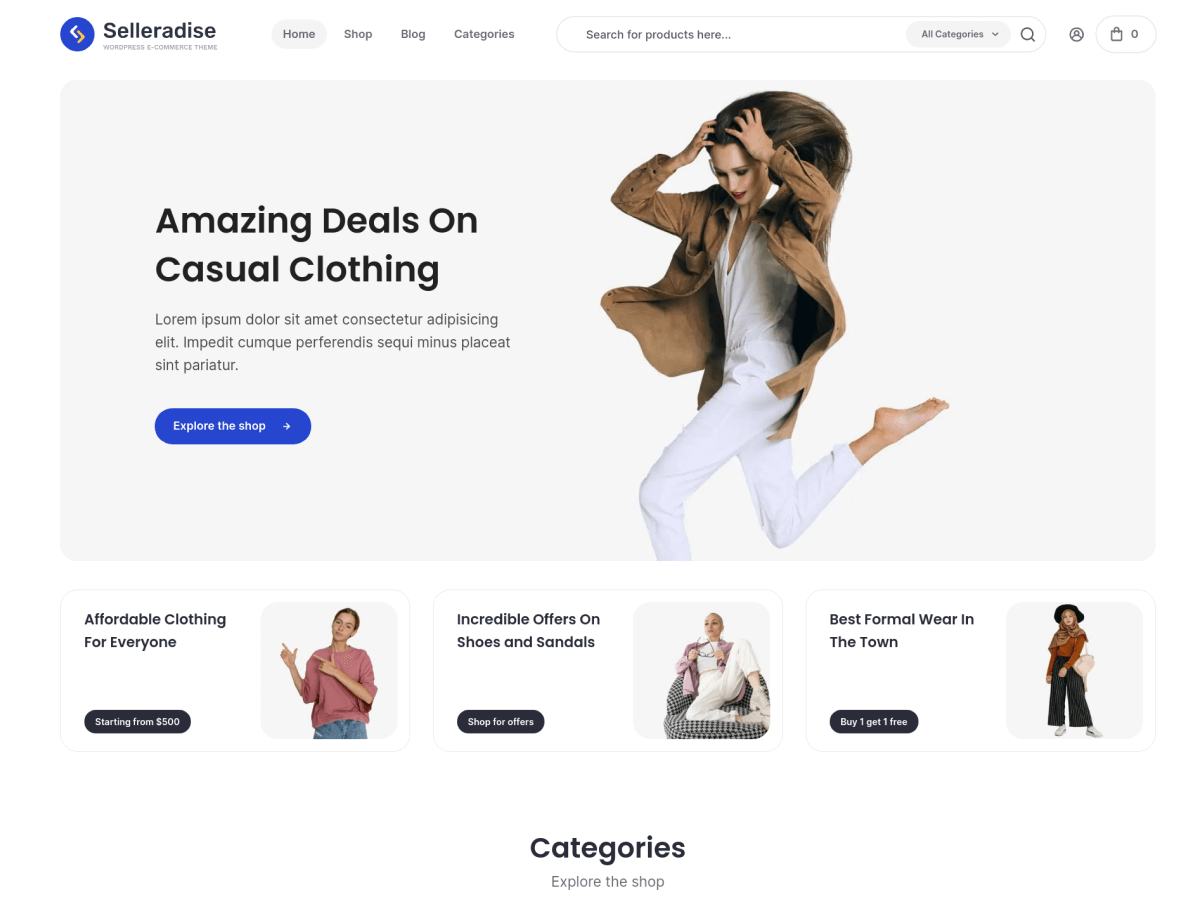
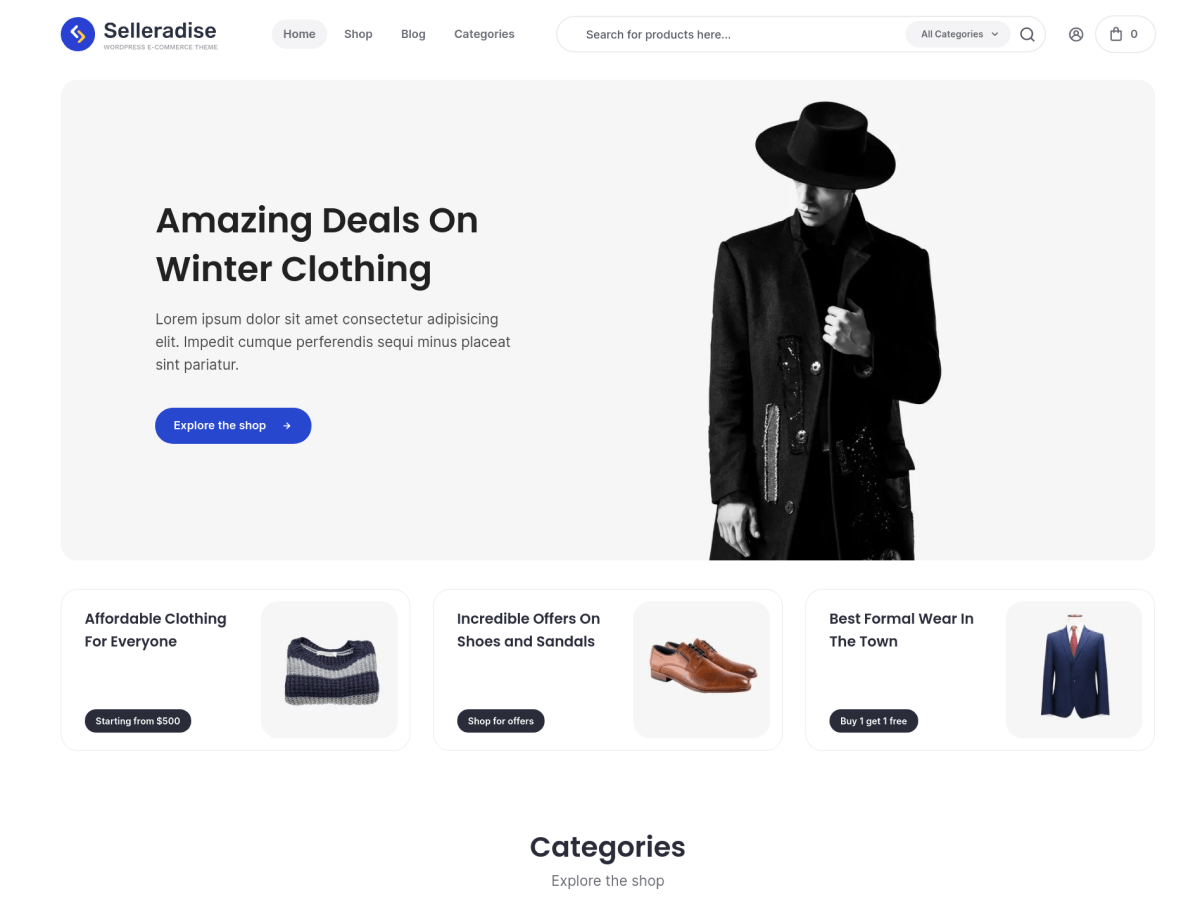
replacing pexels images with pxhere

diff --git a/assets/src/scripts/components/HeaderSearch.vue b/assets/src/scripts/components/HeaderSearch.vue
@@ -20,7 +20,7 @@
           v-on:input="(e) => (keyword = e.target.value)"
           v-on:focus="send('START')"
           v-on:keydown.tab.shift="send('STOP')"
-          v-on:keydown.enter.prevent="onPressEnter"
+          v-on:keydown.enter="onPressEnter"
           class="searchField"
           ref="searchField"
           name="s"
@@ -424,7 +424,7 @@ export default {
         e.preventDefault();
         showToast(trans("header-search-from-error-digits"), "error", 1500);
       } else {
-        searchForm.submit();
+        searchForm.value.submit();
       }
     }
 

diff --git a/README.md b/README.md
@@ -1,40 +1,46 @@
-=== Selleradise Lite ===
-Contributors: zarhasan
-Tags:  e-commerce, left-sidebar, right-sidebar, custom-colors, custom-logo, custom-menu, editor-style, featured-images, full-width-template, theme-options, translation-ready
-Requires at least: 5.5
-Requires PHP: 7.1
-Tested up to: 5.8
-Stable tag: 1.2.2
-License: GPLv3 or later
-License URI: https://www.gnu.org/licenses/gpl-3.0.html
+# Selleradise Lite
+
+**Contributors:** zarhasan \
+**Tags:**  e-commerce, left-sidebar, right-sidebar, custom-colors, custom-logo, custom-menu, editor-style, featured-images, full-width-template, theme-options, translation-ready \
+**Requires at least:** 5.5 \
+**Requires PHP:** 7.1 \
+**Tested up to:** 5.8 \
+**Stable tag:** 1.2.2 \
+**License:** GPLv3 or later \
+**License URI:** https://www.gnu.org/licenses/gpl-3.0.html
 
 Selleradise Lite WordPress Theme, Copyright 2021 RedOxbird
 Selleradise Lite is distributed under the terms of the GNU GPL.
 
-== Description ==
+## Description
 
 Selleradise is a clean, responsive and accessible WooCommerce theme. It is very easy to use and requires minimal configuration to get started. Selleradise comes with all the basic features that you need in a modern online store like quick search, mini cart, dark mode, shop filters, lazy loading, etc.
 
-== Changelog ==
+## Changelog
 
-= 1.2.2 =
+### 1.2.2
+
 * Removing default logo in favour of placeholder text
 * Fixing accessibility issues 
 * Adding Copyright info for each library.
 
-= 1.2.1 =
+### 1.2.1
+
 * Fixing some errors and warnings.
 
-= 1.2.0 =
+### 1.2.0
+
 * Splitting javascript.
 
-= 1.1.0 =
+### 1.1.0
+
 * Cleaning up some css.
 
-= 1.0.0 =
+### 1.0.0
+
 * Releasing the first version of the theme.
 
-== Copyright ==
+## Copyright
 
 Selleradise Lite WordPress Theme, 2021 RedOxbird
 Selleradise Lite is distributed under the terms of the GNU GPL.
@@ -49,7 +55,7 @@ but WITHOUT ANY WARRANTY; without even the implied warranty of
 MERCHANTABILITY or FITNESS FOR A PARTICULAR PURPOSE. See the
 GNU General Public License for more details.
 
-= CSS and JavaScript =
+### CSS and JavaScript
 
 **Normalize.css**, Copyright © Nicolas Gallagher and Jonathan Neal
 [MIT License](https://github.com/necolas/normalize.css/blob/master/LICENSE.md)
@@ -123,13 +129,13 @@ GNU General Public License for more details.
 [MIT License](https://github.com/statelyai/xstate/blob/main/LICENSE)
 [Source](https://github.com/statelyai/xstate)
 
-= Icons =
+### Icons
 
 **Unicons**
 [Apache License 2.0](https://github.com/Iconscout/unicons/blob/master/LICENSE)
 [Source](https://github.com/Iconscout/unicons)
 
-= Images =
+### Images
 
 **Placeholder**
 CC0 License
